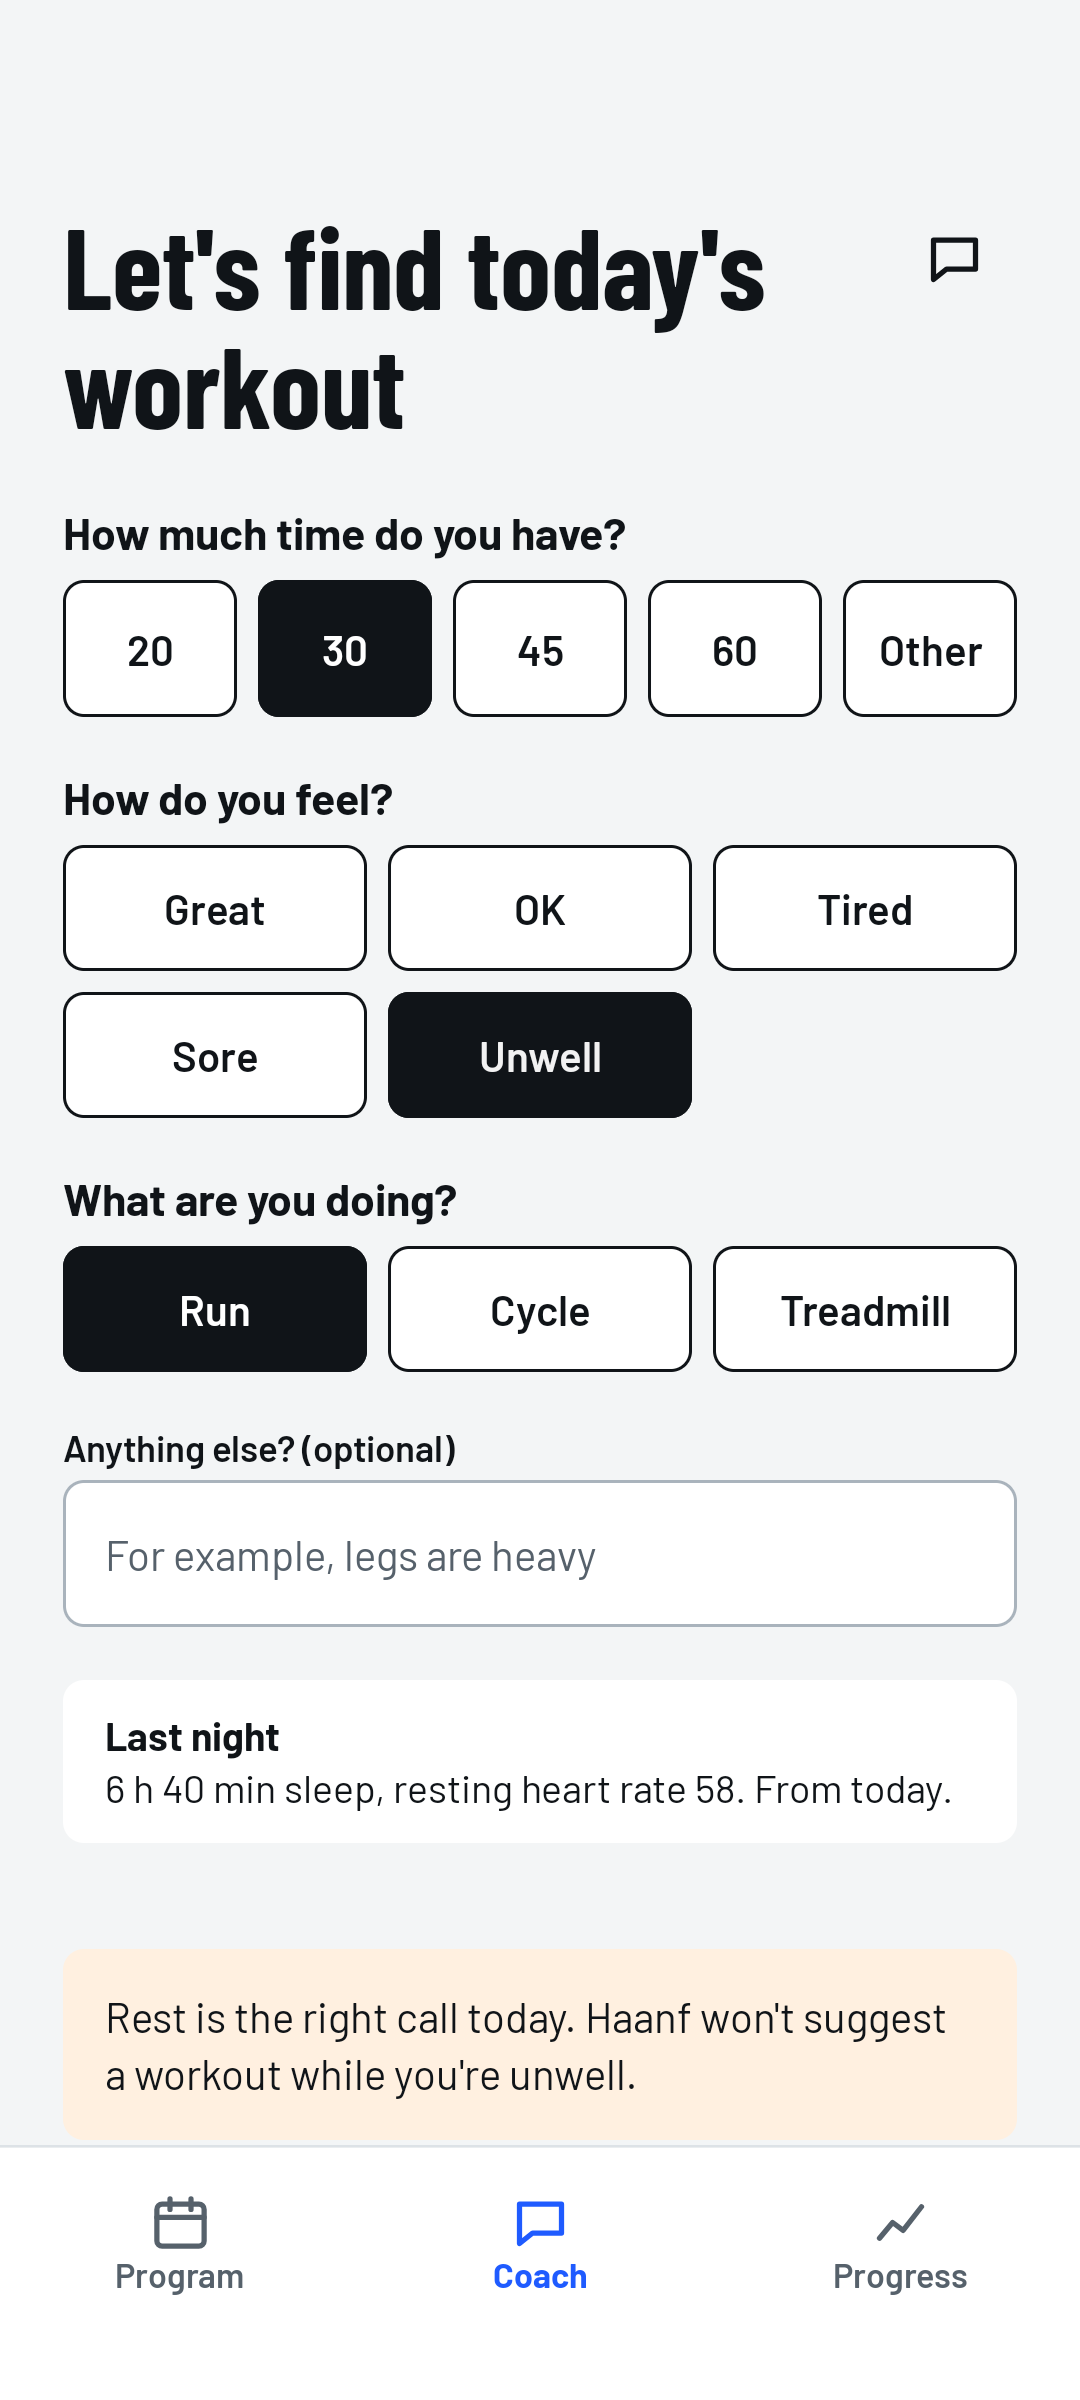
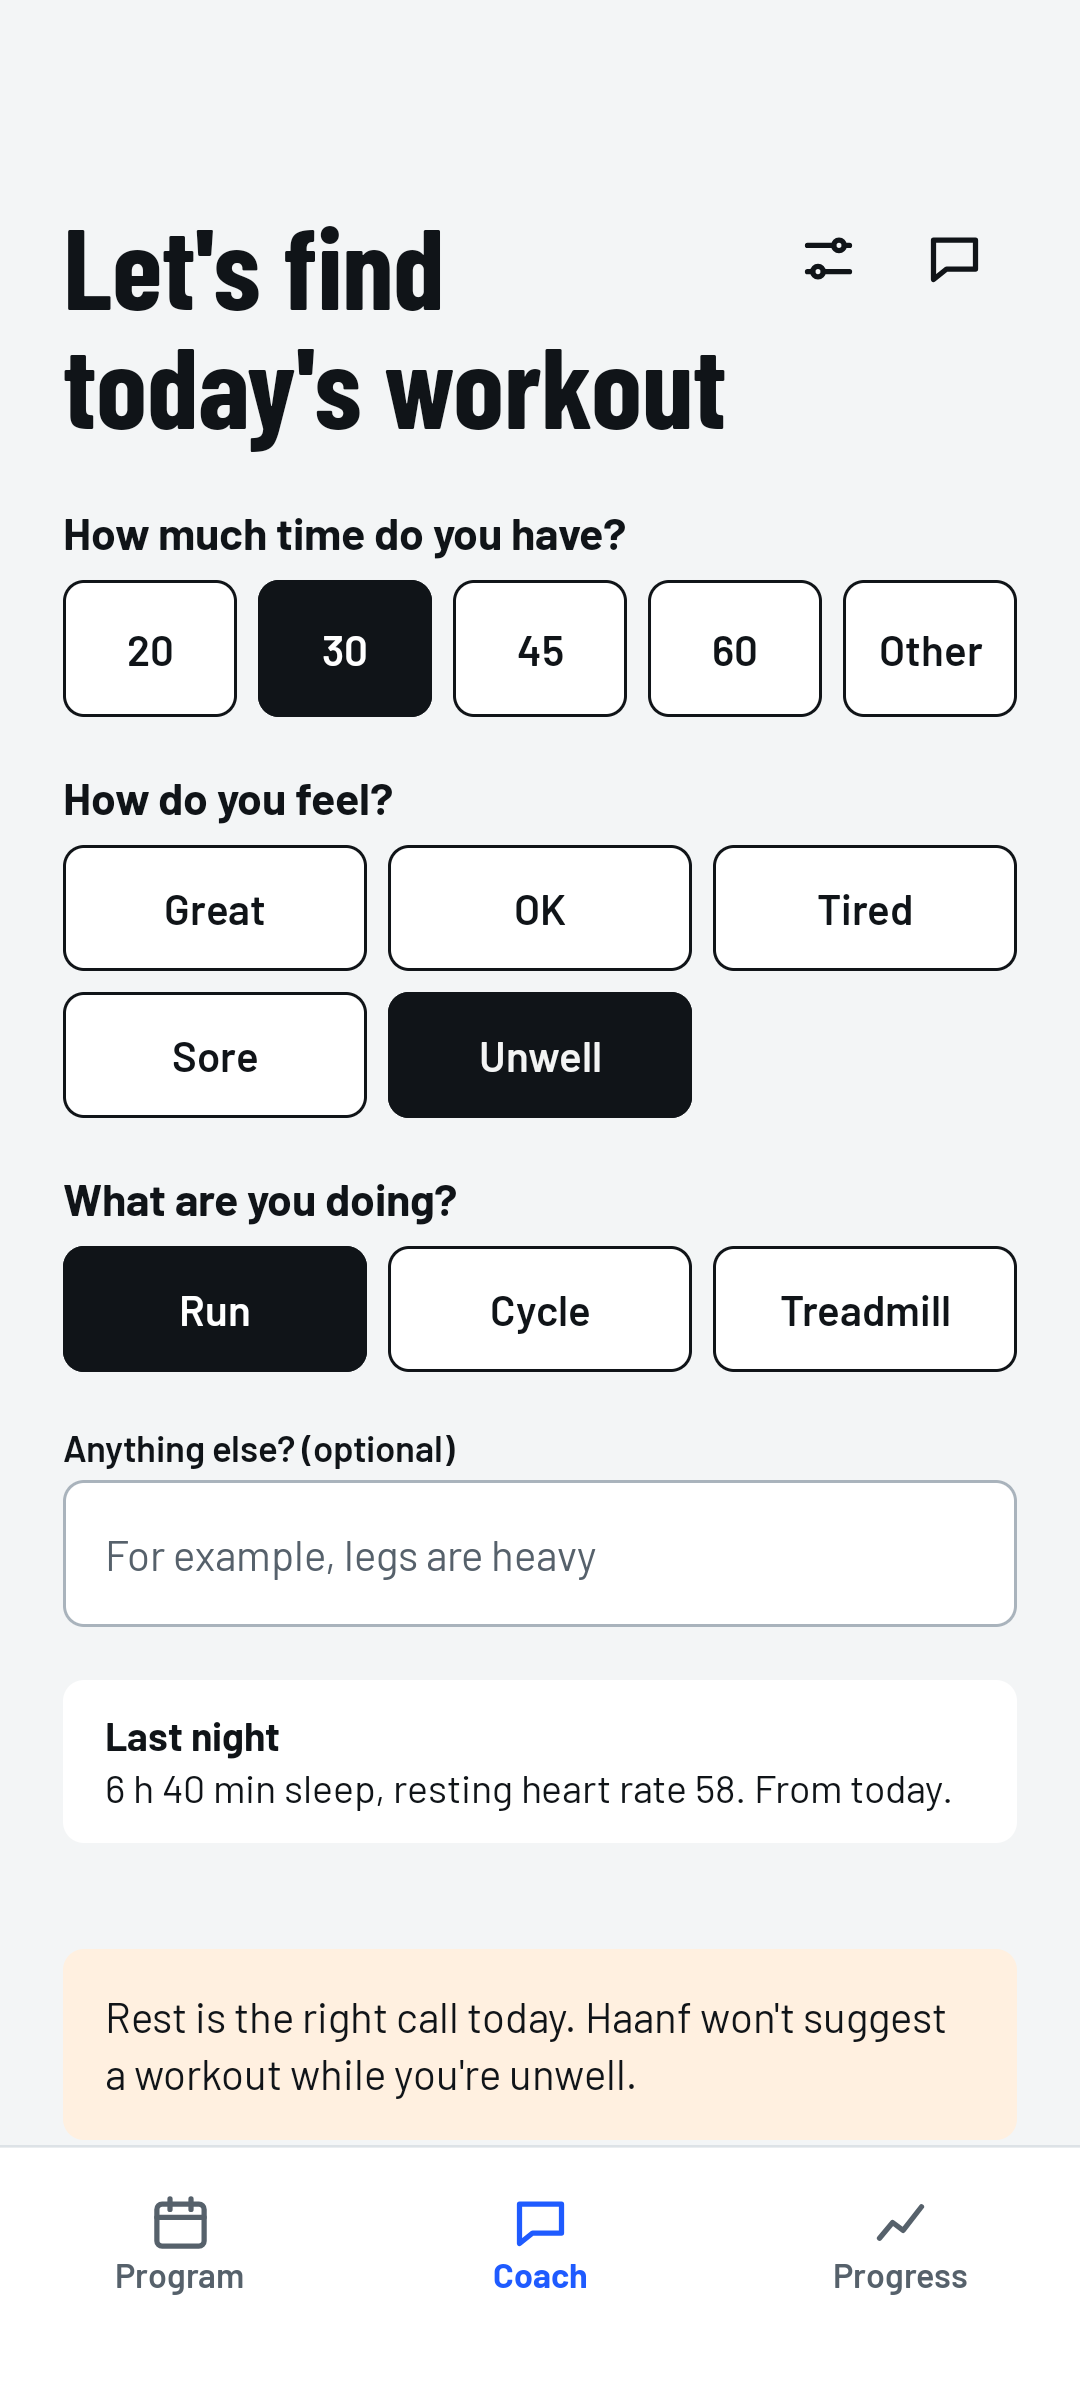
Open the coach's key screen from the Coach tab
With a key saved, the Coach tab never showed the key screen, and the
only way back to it was the gear on Progress. A settings button now
sits beside the chat button at the top of the Coach tab. The key
screen says when a key is saved, without showing it.

Changed region(s): [[0.0611, 0.0938, 0.7028, 0.1875], [0.7333, 0.0938, 0.7944, 0.125]]

diff --git a/app/src/androidTest/java/app/haanf/DesignScreenshotsTest.kt b/app/src/androidTest/java/app/haanf/DesignScreenshotsTest.kt
@@ -478,6 +478,33 @@ class DesignScreenshotsTest {
         shot("16-coach-setup")
     }
 
+    /** Opened from the Coach tab's settings button, with a key already saved. */
+    @Test
+    fun coachSetupWithAKeySaved() {
+        build(onboarded = true)
+        TestSupport.seedProfile(container)
+        TestSupport.seedBenchmark(container)
+        // A made-up key, saved only if the emulator has none, and removed afterwards.
+        val madeUp = container.aiSettings.settings.value == null
+        if (madeUp) {
+            container.aiSettings.save(
+                app.haanf.ai.AiSettings(app.haanf.ai.AiProvider.HINOKI, app.haanf.ai.AiProvider.HINOKI.defaultModel, app.haanf.ai.CoachTone.WARM),
+                "made-up-key-for-a-screenshot-only",
+            )
+        }
+        try {
+            showRoot()
+            waitForText("Coach")
+            compose.onNodeWithText("Coach").performClick()
+            waitForText("Let's find today's workout")
+            compose.onNodeWithContentDescription("Coach settings").performClick()
+            waitForText("key is saved", substring = true)
+            shot("16-coach-setup-saved")
+        } finally {
+            if (madeUp) container.aiSettings.clear()
+        }
+    }
+
     private fun startLive(bpm: Int) {
         container.live.start(source.device, watchWorkoutRunning = false)
         compose.waitUntil(timeoutMillis = 5_000) { source.readingsFlow.subscriptionCount.value > 0 }

diff --git a/app/src/main/java/app/haanf/ui/CoachScreens.kt b/app/src/main/java/app/haanf/ui/CoachScreens.kt
@@ -160,7 +160,8 @@ fun CoachTab(container: AppContainer, nav: Navigator, state: CoachTabState, vita
 private fun CoachHeader(title: String, nav: Navigator) {
     Row(Modifier.fillMaxWidth(), verticalAlignment = Alignment.Top) {
         ScreenTitle(title, modifier = Modifier.weight(1f))
-        Box(Modifier.padding(start = 8.dp)) {
+        Row(Modifier.padding(start = 8.dp)) {
+            HIconButton(HaanfIcons.Settings, "Coach settings", onClick = { nav.open(Dest.CoachSetup) })
             HIconButton(HaanfIcons.Coach, "Chat with your coach", onClick = { nav.open(Dest.Chat) })
         }
     }
@@ -591,6 +592,9 @@ fun CoachSetupScreen(
             }, enabled = !checking)
         }
         HTextField(key, { key = it }, "API key", placeholder = provider.keyHint, password = true, enabled = !checking)
+        existing?.let { saved ->
+            Hint("Your ${saved.provider.label} key is saved. Paste a key again to change the provider, model or tone.")
+        }
         HTextField(model, { model = it }, "Model", enabled = !checking)
         LabeledChoices("Coach tone") {
             Choices(CoachTone.entries, tone, { it.label }, { tone = it }, enabled = !checking, height = 56.dp)

diff --git a/app/src/androidTest/java/app/haanf/CoachScreensTest.kt b/app/src/androidTest/java/app/haanf/CoachScreensTest.kt
@@ -153,6 +153,18 @@ class CoachScreensTest {
     }
 
     @Test
+    fun withAKeyTheCoachTabStillOpensTheKeyScreen() {
+        launch()
+        openCoach()
+        waitForText("Let's find today's workout")
+        compose.onNodeWithContentDescription("Coach settings").performClick()
+        waitForText("Set up your coach")
+        compose.onNodeWithText("Agree and connect").performScrollTo().assertIsDisplayed()
+        compose.onNodeWithContentDescription("Back").performScrollTo().performClick()
+        waitForText("Let's find today's workout")
+    }
+
+    @Test
     fun theWholeLoopFromPlanToCoachToReview() {
         launch()
         openCoach()

diff --git a/docs/design/README.md b/docs/design/README.md
@@ -45,6 +45,7 @@ The code is in `app/src/main/java/app/haanf/ui/theme` (colours, type, icons) and
 - Three tabs: Program, Coach and Progress.
 - History and vitals are part of Progress.
 - Settings opens from the top of Progress. It holds About you, heart rate zones, your watch, the coach's provider, key, model and tone, Health Connect sharing, export, and the Lab.
+- The coach's key screen opens from the Coach tab. With no key saved, it is the whole tab. With a key saved, the settings button next to the chat button at the top of the Coach tab opens it, and so does Coach in Settings.
 - The Lab holds the Phase 0 tools: the heart rate tool, the talk test recorder and the Health Connect report.
 - A running workout takes over the whole screen, with no tabs.
 - Back steps through screens opened over the tabs. There is no navigation library: `ui/Nav.kt` is a small back stack.
@@ -56,7 +57,7 @@ These follow the same visual system and stay plain.
 - **Settings.** One card per section. About you can be edited in place, and it includes the optional measured maximum heart rate from the earlier profile form.
 - **The Lab.** A back button and the tool's name above each Phase 0 tool. The tools themselves were not redesigned.
 - **Chat.** "What the coach knows" sits at the top as a card, with Remember, Dismiss and Mark resolved. Coach messages are white bubbles on the left, and the athlete's are blue on the right. The bar at the bottom has the text field, the microphone and Send.
-- **Coach setup.** The earlier setup, restyled: provider, key, model and tone, then the "What the AI receives" box. In the Coach tab it also offers "Start a free workout", so a free workout never needs a key.
+- **Coach setup.** The earlier setup, restyled: provider, key, model and tone, then the "What the AI receives" box. In the Coach tab it also offers "Start a free workout", so a free workout never needs a key. With a key saved, a line under the key field names the saved provider and says to paste a key again to change the provider, model or tone. The key itself is never shown.
 - **All workouts.** The same rows as Recent workouts, newest first. Each opens its summary, which has "Delete this workout" at the bottom.
 - **Benchmarks.** Every benchmark with its date, level, mile time and VO2max, and a Start benchmark button.
 - **Benchmark results.** The summary with a blue card on top: estimated VO2max, the level for age and sex, the typical value, mile time and heart rate near the end. "Your program is unlocked" shows only after the first scored benchmark. A walk with no score says why.
@@ -73,7 +74,7 @@ These follow the same visual system and stay plain.
 | First benchmark | Changed | Adds "Not now", which goes to the app with the program still locked. |
 | Program details | Changed | The stay-consistent box says coach and free workouts don't count, rather than only AI workouts. Adds "A draft plan, still under review", and a week-by-week list when opened from "See the full plan". Start asks for confirmation with the existing safety warning. With no benchmark scored, a benchmark card replaces Start. |
 | Program tab | Changed | Session names are the program's own ("4 x 2 minutes hard"), since programs are fixed. The warning names the real deadline ("by tomorrow"). Easy sessions describe their pace and bpm. A label says "Next session" if a program workout was already done today. |
-| Coach check-in | Changed | Feel has five choices in two rows. Keeps the optional note from the earlier check-in. "Last night" shows which day the data is from, not when the watch synced, because Health Connect doesn't say when a sync happened. "Start a free workout" sits under the main button. |
+| Coach check-in | Changed | Feel has five choices in two rows. Keeps the optional note from the earlier check-in. "Last night" shows which day the data is from, not when the watch synced, because Health Connect doesn't say when a sync happened. "Start a free workout" sits under the main button. A settings button beside the chat button opens the coach's key screen. |
 | Coach recommendation | Changed | Each step shows its zone and bpm under its name. The design's line about the next benchmark is left out, because the planner doesn't return it. "Change my answers" returns to the check-in. |
 | Get ready | Changed | The talk test switch is "Talk test checks", shown only with the coach on, since the coach now asks the question. Adds the "Coach me" switch from the brief, and an "Allow the microphone" link when needed. |
 | Live: steady step | Changed | Shows elapsed time instead of distance when nothing measures distance. With the coach on, the coach's latest line appears, with "Talk to coach", or quick replies on a phone with no on-device speech. The emulator has none, so the screenshot shows quick replies. |
@@ -113,7 +114,7 @@ adb -s emulator-5554 pull /sdcard/Android/data/app.haanf/files/design-screens do
 | 13-summary, -bottom | Workout summary |
 | 14-progress, -bottom | Progress tab |
 | 15-settings, -bottom | No design |
-| 16-coach-setup | No design |
+| 16-coach-setup, -saved | No design |
 | 17-live-dropout | No design |
 | 18-history | No design |
 | 19-live-benchmark | No design |
